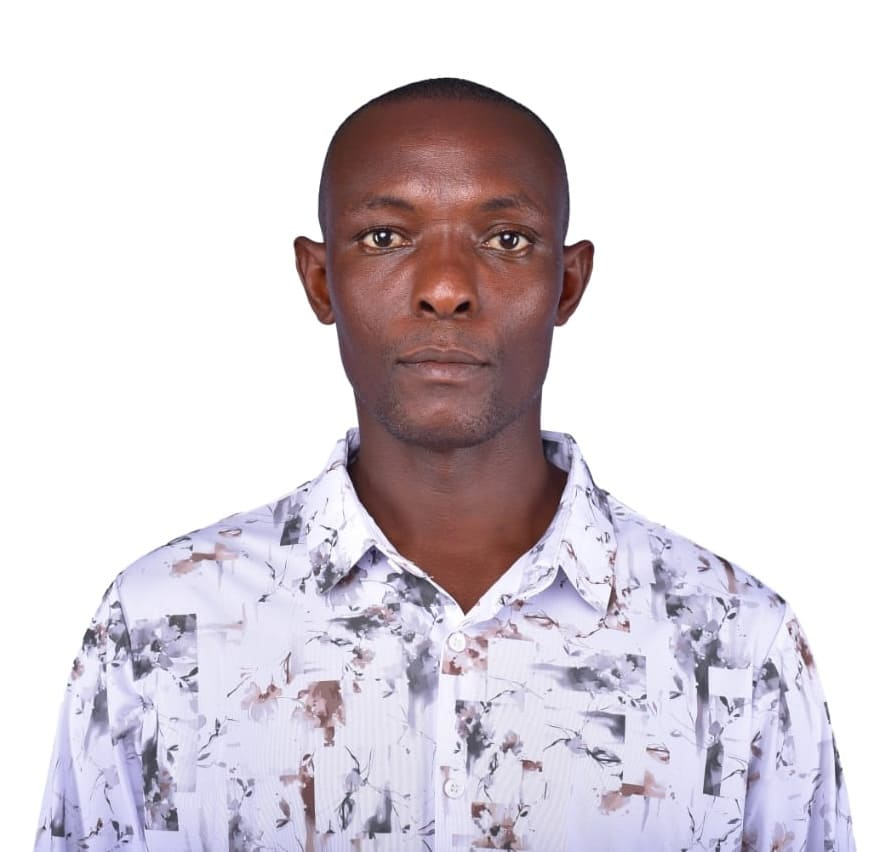
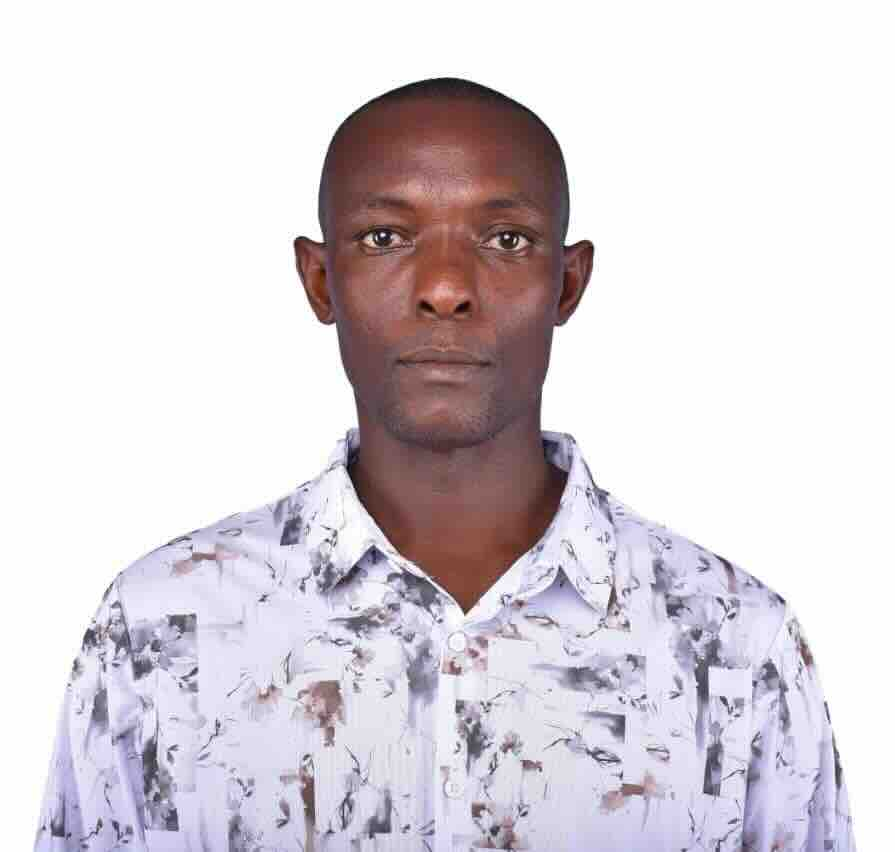
Let's push some smaller images

diff --git a/index.html b/index.html
@@ -94,7 +94,7 @@
                 <div class="owl-carousel">
                     <div class="carousel-item">
                         <div class="carousel-img">
-                            <img src="img/carousel/carousel-1.jpg" alt="Image">
+                            <img src="img/carousel/carousel-1.jpeg" alt="Image">
                         </div>
                         <div class="carousel-text">
                             <h1>Empowering lives, one child at a time</h1>
@@ -105,7 +105,7 @@
                     </div>
                     <div class="carousel-item">
                         <div class="carousel-img">
-                            <img src="img/carousel/carousel-2.jpg" alt="Image">
+                            <img src="img/carousel/carousel-2.jpeg" alt="Image">
                         </div>
                         <div class="carousel-text">
                             <h1>Empowering lives, one child at a time</h1>
@@ -116,7 +116,7 @@
                     </div>
                     <div class="carousel-item">
                         <div class="carousel-img">
-                            <img src="img/carousel/carousel-3.jpg" alt="Image">
+                            <img src="img/carousel/carousel-3.jpeg" alt="Image">
                         </div>
                         <div class="carousel-text">
                             <h1>Empowering lives, one child at a time</h1>
